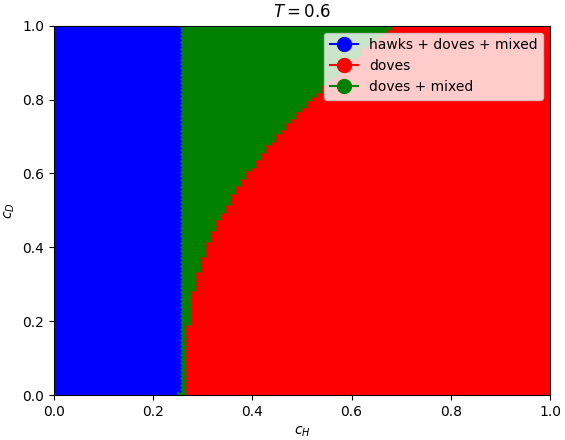
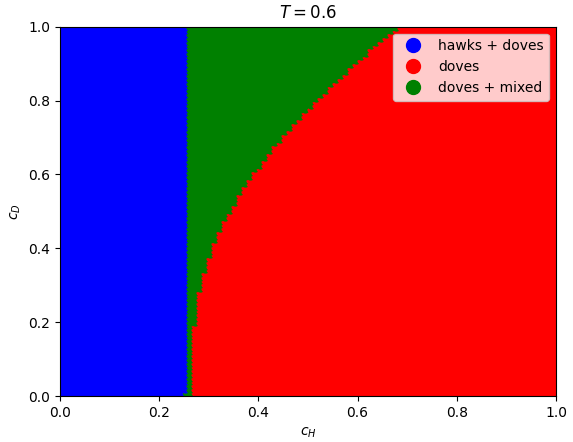
fix phase diagram

diff --git a/infinite_populations.py b/infinite_populations.py
@@ -339,7 +339,7 @@ class InfiniteNPlayerHDGTDynamics(InfiniteNPlayerHDGDynamics):
                     pass
         return unstable_equilibria, stable_equilibria
 
-    def compute_stable_equilibria(self, epsilon=1e-6) -> list:
+    def compute_stable_equilibria(self, epsilon=1e-7) -> list:
         """
         Compute the stable equilibria for the current game
 
@@ -349,20 +349,26 @@ class InfiniteNPlayerHDGTDynamics(InfiniteNPlayerHDGDynamics):
         # array of states
         dove_strategy = np.linspace(0, 1, num=self.nb_states, dtype=np.float64)
         # find optimal state for each cost
-        equilibria = []
         G = np.array([self.compute_gradient_for_state(i) for i in dove_strategy])
         equilibria_idx = np.where((np.roll(G, -1) * G < 0) | (np.abs(G) <= epsilon))[0]
-        equilibria = equilibria_idx / (self.nb_states - 1)
+        stable_equilibria = []
         # Check for x = 0 and x = 1
-        if G[1] > 0:
-            # We know G[0] = 0, so we check if it goes directly down with G[1] -> Unstable point
-            # Remove x = 0
-            equilibria = np.delete(equilibria, 0)
-        if G[-2] < 0:
-            # We know G[-1] = 0, so we check if it goes directly up with G[-2] -> Unstable point
-            # Remove x = 1
-            equilibria = np.delete(equilibria, -1)
-        return equilibria
+        if G[1] < 0:
+            # We know G[0] = 0, so we check if it goes directly up with G[1] -> Stable point
+            stable_equilibria.append(0)
+        
+        for equilibrium_idx in equilibria_idx:
+            if equilibrium_idx == 0 or equilibrium_idx == G.size - 1:
+                continue
+            if G[equilibrium_idx - 1] > -epsilon and G[equilibrium_idx + 1] < epsilon:
+                #Stable
+                stable_equilibria.append(equilibrium_idx / (self.nb_states - 1))
+        if G[-2] > 0:
+            # We know G[-1] = 0, so we check if it goes directly down with G[-2] -> Stable point
+            stable_equilibria.append(1)
+
+
+        return stable_equilibria
 
     @staticmethod
     def get_phase(equilibria, epsilon=1e-6) -> Tuple[bool, bool, bool]:
@@ -400,8 +406,8 @@ class InfiniteNPlayerHDGTDynamics(InfiniteNPlayerHDGDynamics):
         c_h_values = np.linspace(0, 1, resolution_cost)
         phase_dictionary = {
             # (Doves, Hawks, Mixed)
-            (True, True, True): ("hawks + doves + mixed", "blue"),
-            (True, True, False): ("hawks + doves", "orange"),
+            (True, True, True): ("hawks + doves + mixed", "orange"),
+            (True, True, False): ("hawks + doves", "blue"),
             (True, False, True): ("doves + mixed", "green"),
             (True, False, False): ("doves", "red"),
             (False, True, True): ("hawks + mixed", "purple"),
@@ -433,6 +439,7 @@ class InfiniteNPlayerHDGTDynamics(InfiniteNPlayerHDGDynamics):
                         [c_h],
                         [c_d],
                         label=phase_dictionary[phase][0],
+                        linestyle='None',
                         marker="o",
                         markersize=10,
                         color=color,
@@ -441,6 +448,7 @@ class InfiniteNPlayerHDGTDynamics(InfiniteNPlayerHDGDynamics):
                     plt.plot(
                         [c_h],
                         [c_d],
+                        linestyle='None',
                         marker="o",
                         markersize=500 / resolution_cost,
                         color=color,
@@ -461,4 +469,4 @@ if __name__ == "__main__":
     #InfiniteNPlayerHDGTDynamics.plot_c_d_equilibria(T=0.8)
     # InfiniteNPlayerHDGTDynamics.plot_c_d_equilibria(T=0.4)
     # InfiniteNPlayerHDGTDynamics.plot_c_h_equilibria(T=0.6)
-    InfiniteNPlayerHDGTDynamics.plot_phase_diagram(N = 5, T = 0.2, resolution_cost = 100)
+    InfiniteNPlayerHDGTDynamics.plot_phase_diagram(N = 5, T = 0.8, resolution_cost = 100)
